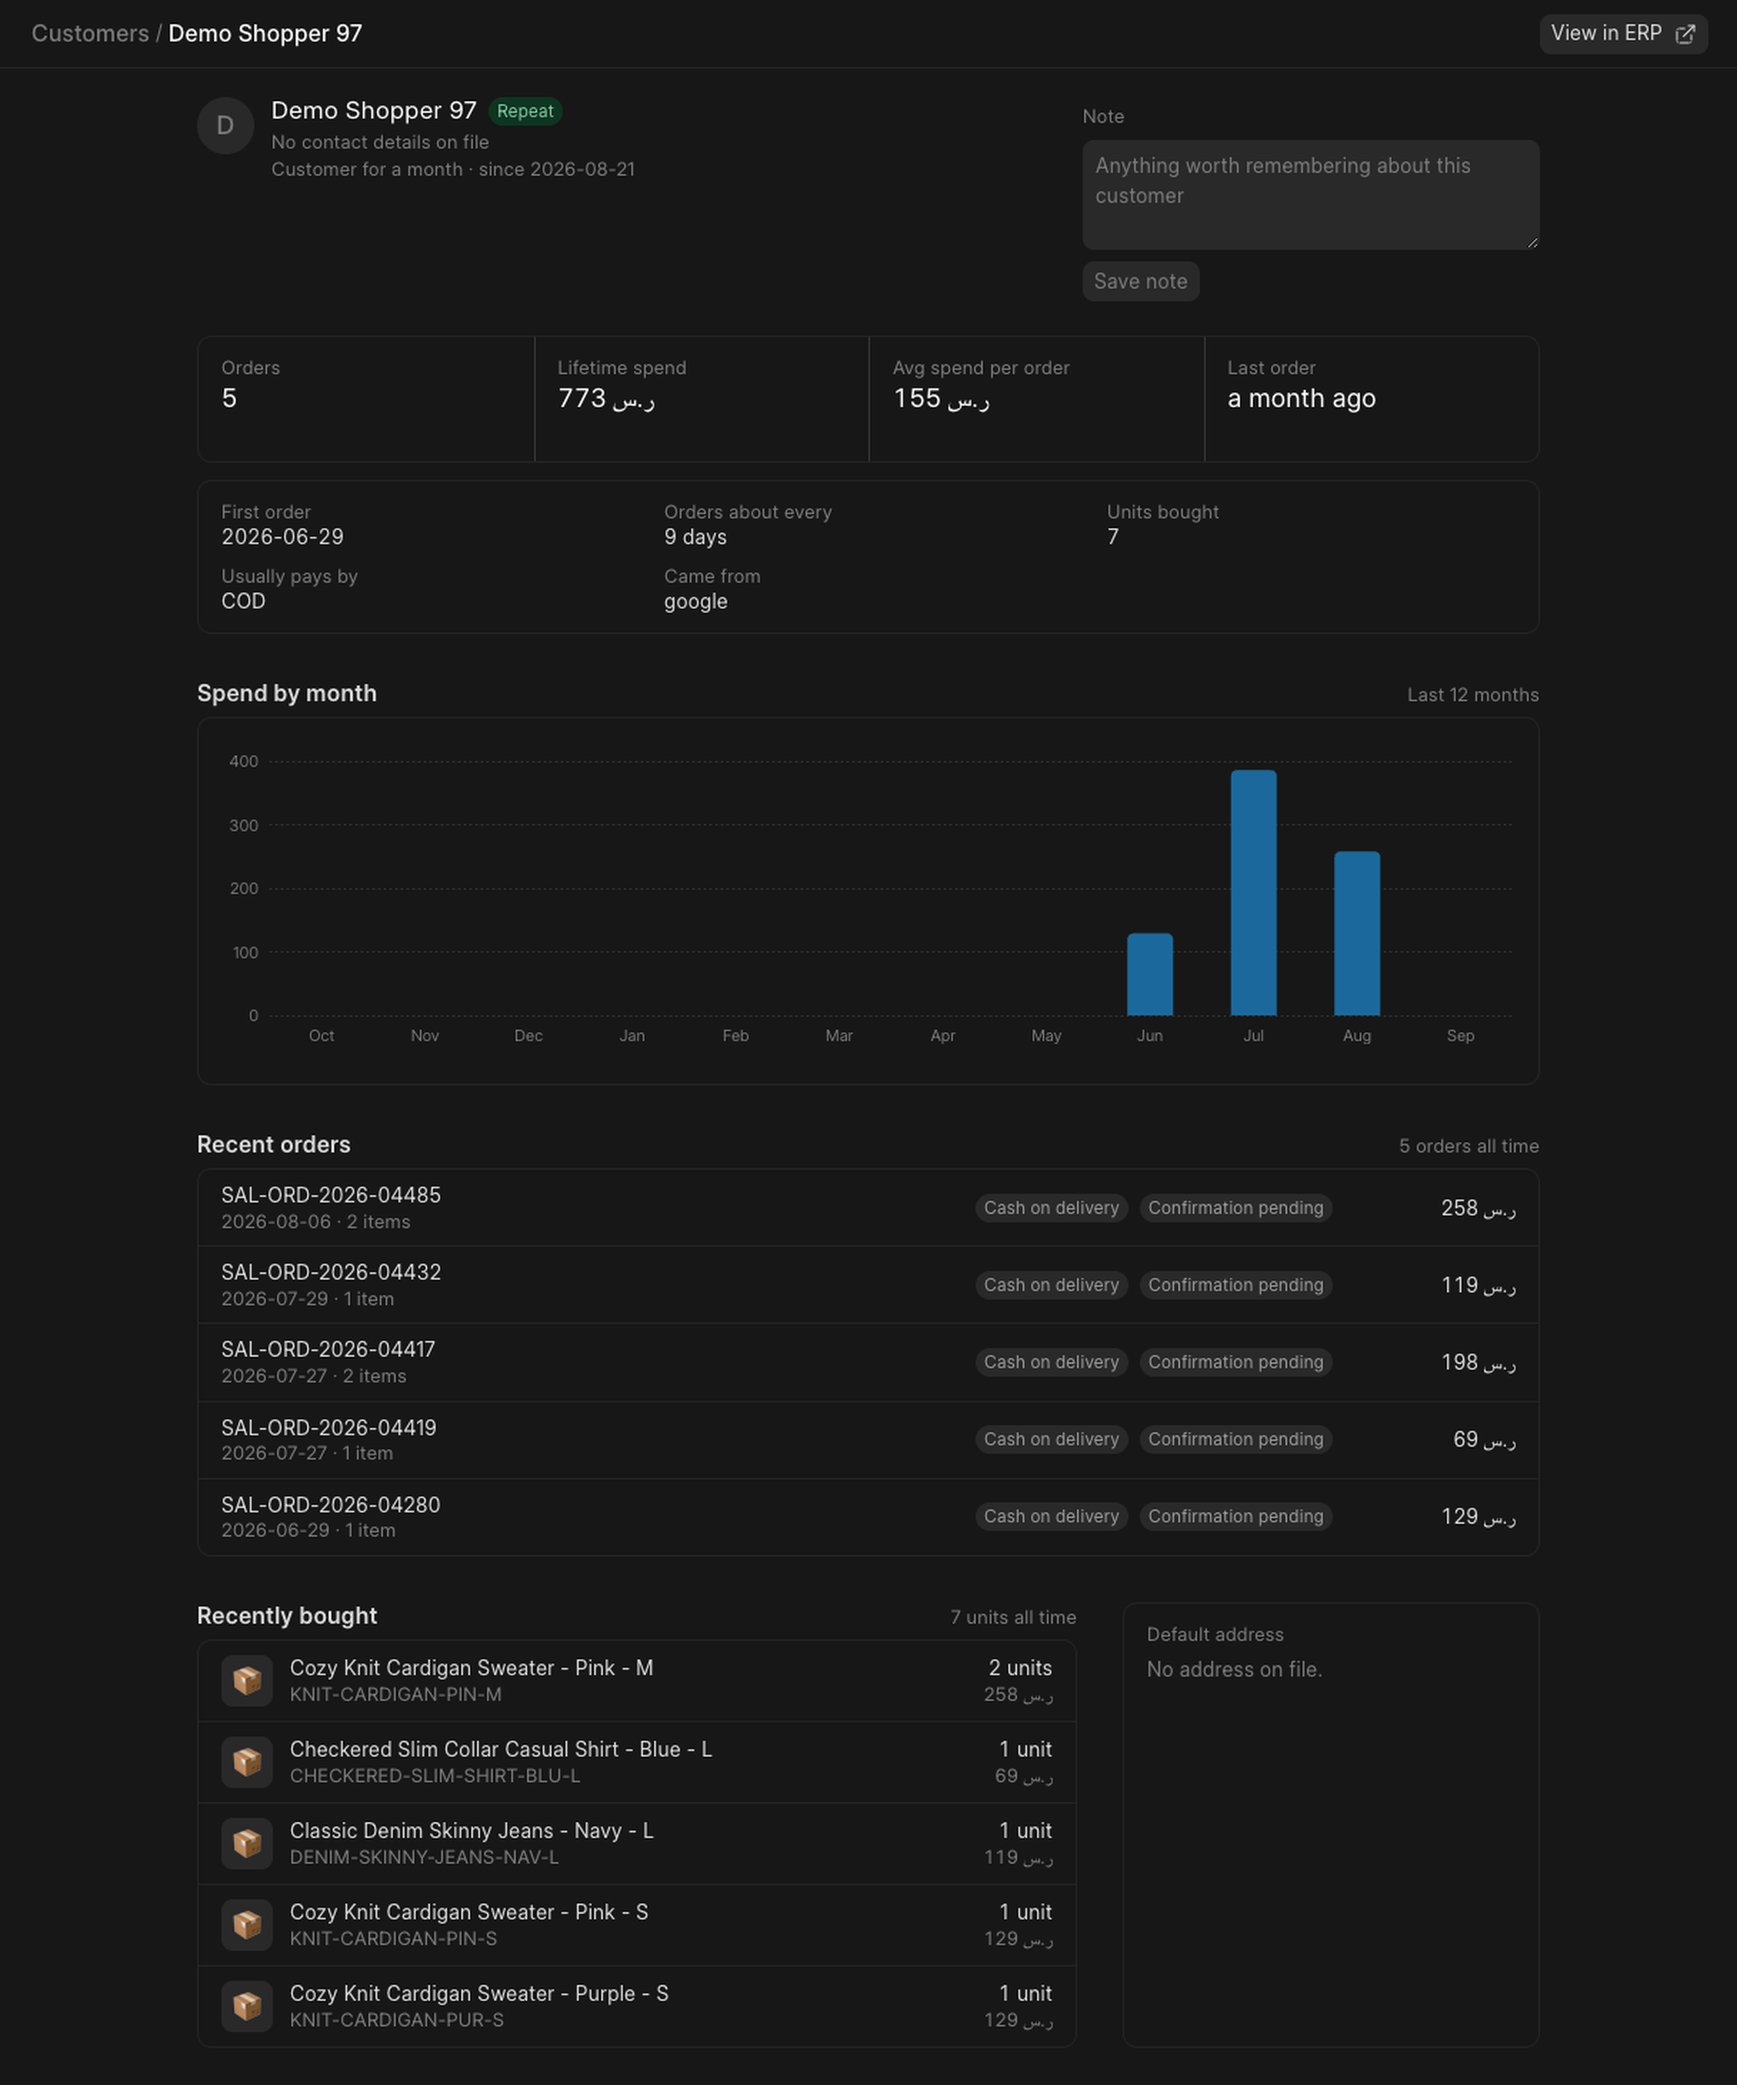
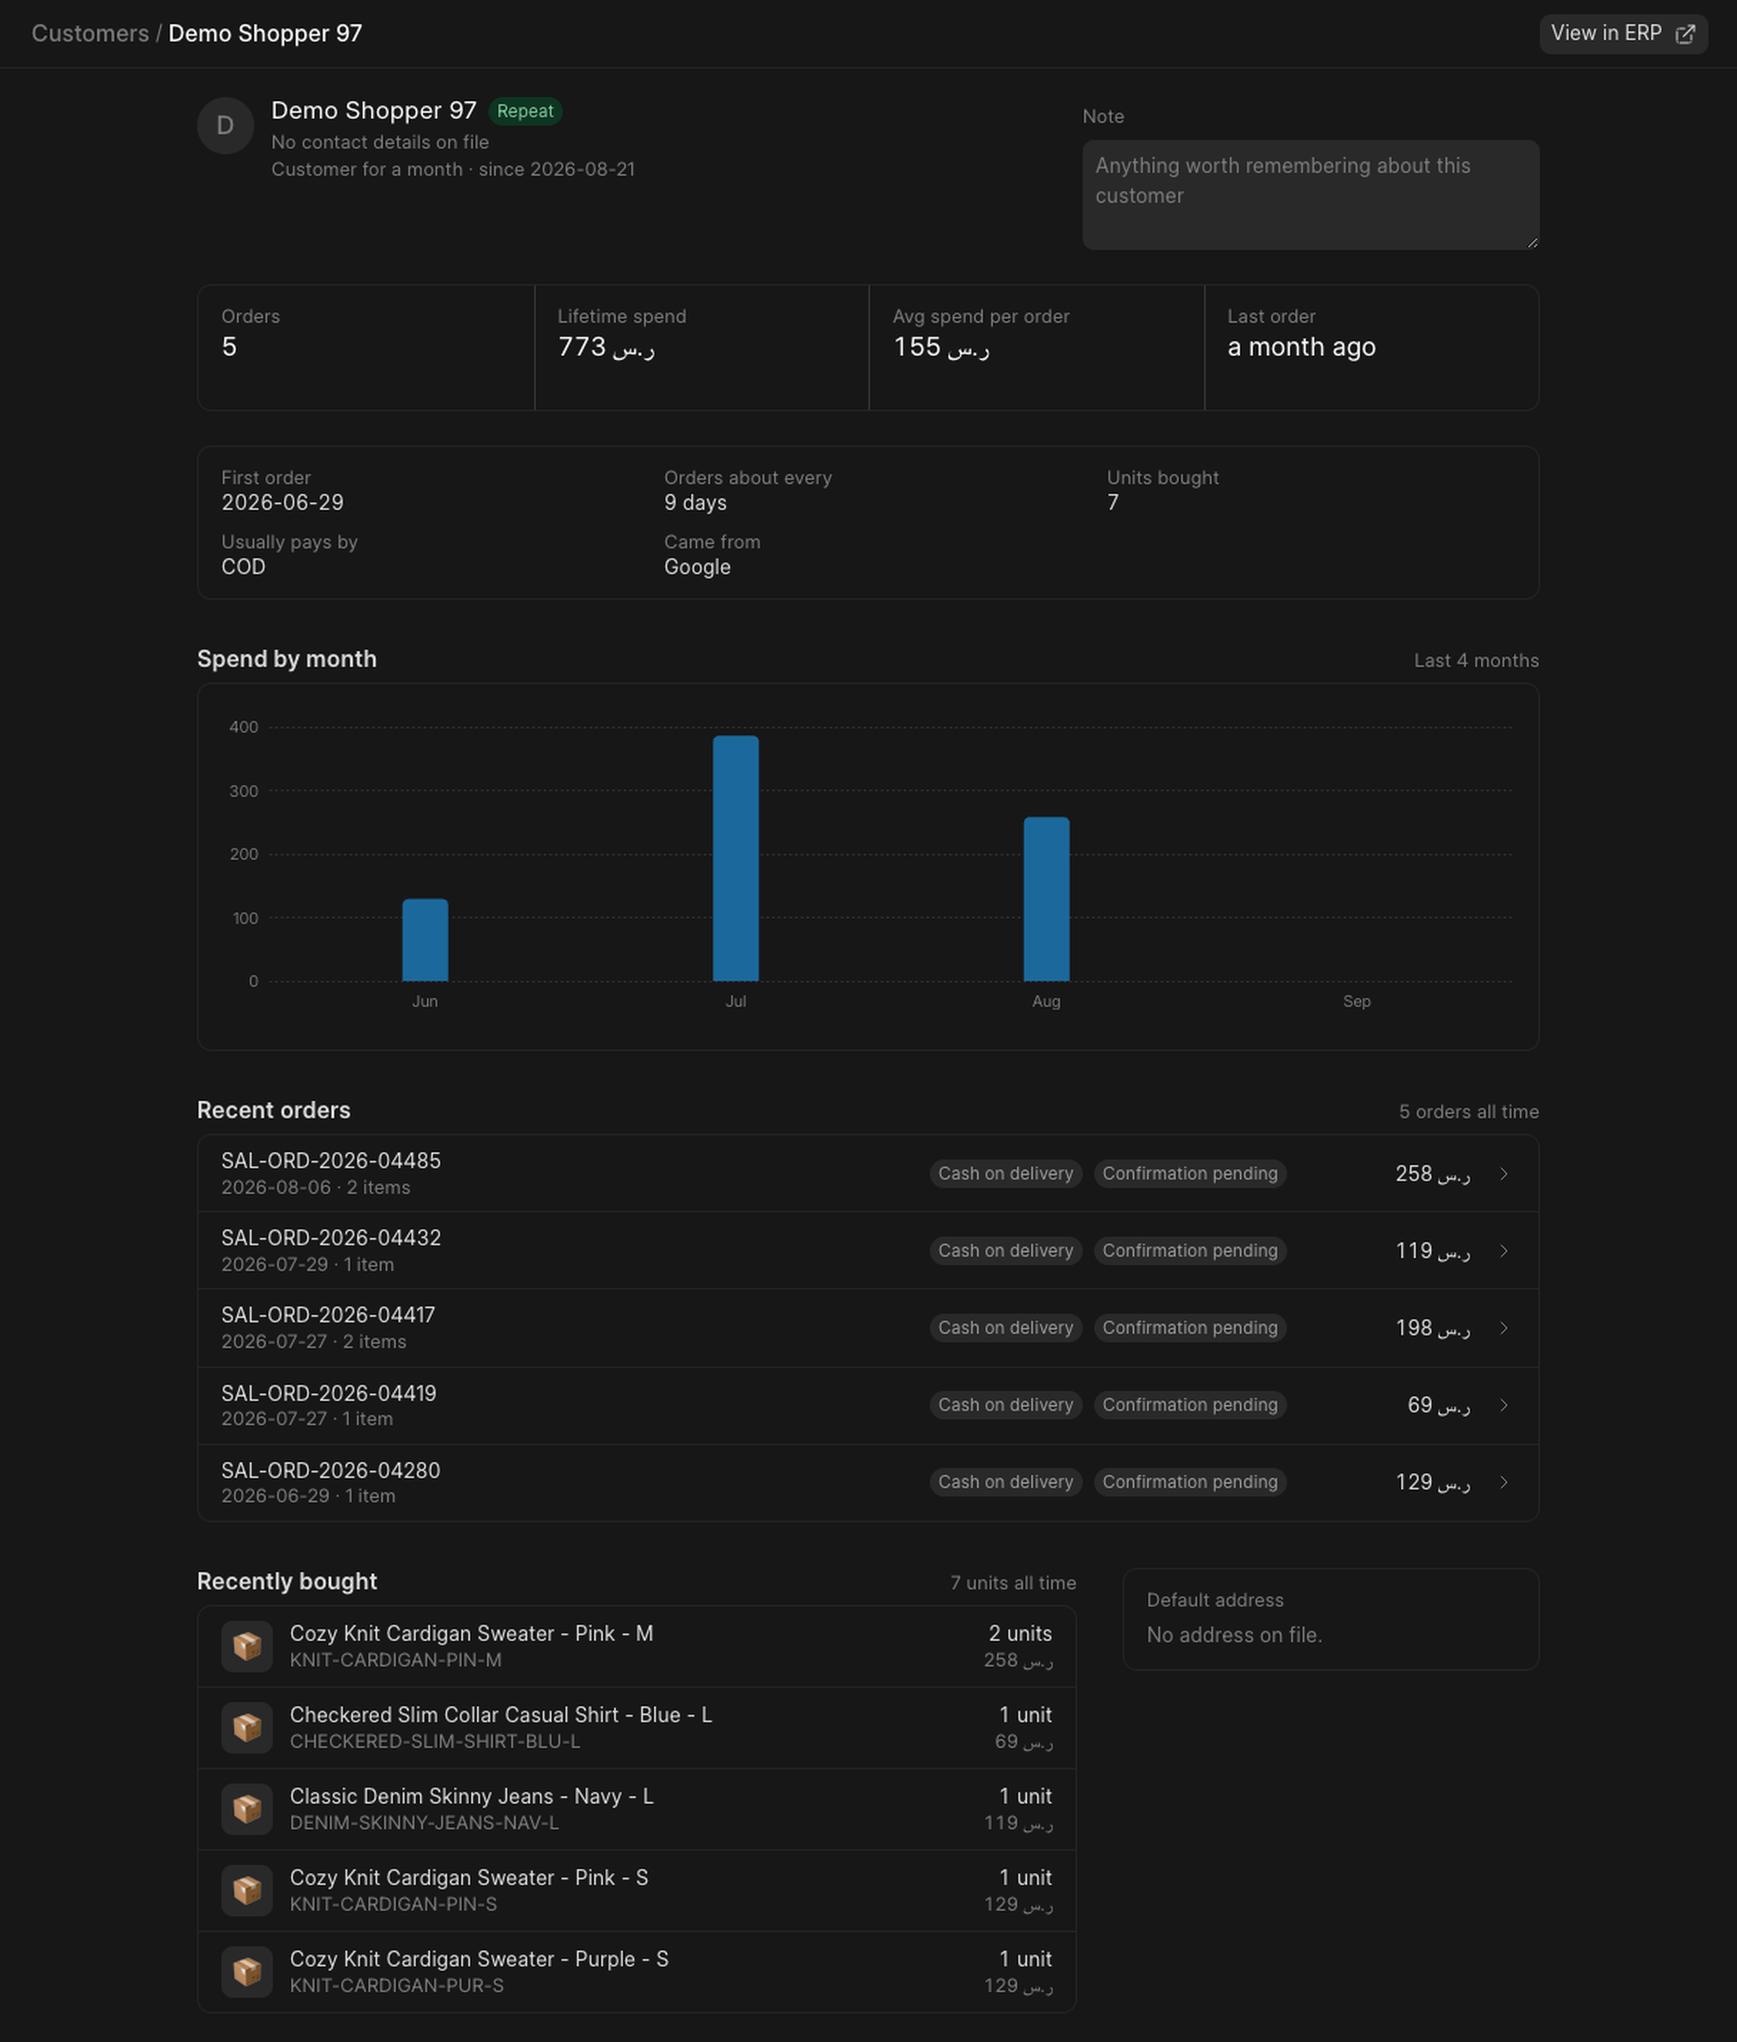
fix(dashboard): address the visual review on the customer profile

diff --git a/dashboard/src/pages/CustomerDetail.vue b/dashboard/src/pages/CustomerDetail.vue
@@ -88,12 +88,25 @@ const atAGlance = computed(() => {
     facts.push({
       label: 'Came from',
       value: [record.acquisition.source, record.acquisition.campaign].filter(Boolean).join(' · '),
+      // utm_source arrives however the campaign was tagged, almost always
+      // lowercase ("google"), which reads as unfinished next to the other facts.
+      capitalize: true,
     })
   }
   return facts
 })
 
 const customerFor = computed(() => dayjs(customer.value.since).fromNow(true))
+
+// The server always sends a full year so the axis is continuous, but a customer
+// who first bought four months ago would spend two thirds of the plot proving
+// they did not exist yet. Drop the empty run before their first month; the gaps
+// between their own orders stay, because those are the ones worth seeing.
+const spendByMonth = computed(() => {
+  const months = customer.value?.spend_by_month ?? []
+  const firstMonthWithSpend = months.findIndex((month) => month.spend)
+  return firstMonthWithSpend > 0 ? months.slice(firstMonthWithSpend) : months
+})
 
 // Customer.email_id and mobile_no come back as empty strings, not null, when a
 // shopper checked out without them — joining the truthy parts keeps a missing
@@ -165,11 +178,14 @@ function plural(count, word) {
             v-model="note"
             placeholder="Anything worth remembering about this customer"
           />
+          <!-- Only once there is something to save: a permanently parked
+               disabled button is the loudest thing in the header, and the note
+               should sit quietly behind the customer's own details. -->
           <Button
+            v-if="noteChanged"
             class="mt-2"
             label="Save note"
             :loading="noteAction.loading"
-            :disabled="!noteChanged"
             @click="saveNote"
           />
         </section>
@@ -177,11 +193,16 @@ function plural(count, word) {
 
       <ReportStats class="mt-6" :stats="stats" />
 
-      <section v-if="atAGlance.length" class="mt-3 rounded-5 border border-outline-gray-1 px-4 py-3.5">
+      <section v-if="atAGlance.length" class="mt-6 rounded-5 border border-outline-gray-1 px-4 py-3.5">
         <dl class="grid grid-cols-2 gap-x-6 gap-y-3 sm:grid-cols-3">
           <div v-for="fact in atAGlance" :key="fact.label">
             <dt class="text-sm text-ink-gray-5">{{ fact.label }}</dt>
-            <dd class="mt-0.5 text-base text-ink-gray-8 tabular-nums">{{ fact.value }}</dd>
+            <dd
+              class="mt-0.5 text-base text-ink-gray-8 tabular-nums"
+              :class="fact.capitalize ? 'capitalize' : ''"
+            >
+              {{ fact.value }}
+            </dd>
           </div>
         </dl>
       </section>
@@ -189,13 +210,15 @@ function plural(count, word) {
       <section v-if="customer.orders" class="mt-8">
         <div class="flex items-baseline justify-between">
           <h2 class="text-lg-semibold text-ink-gray-8">Spend by month</h2>
-          <span class="text-sm text-ink-gray-5">Last 12 months</span>
+          <span class="text-sm text-ink-gray-5">
+            {{ spendByMonth.length === 1 ? 'This month' : `Last ${spendByMonth.length} months` }}
+          </span>
         </div>
         <!-- frappe-ui's charts fill their parent, so the height has to come
              from the wrapper — the analytics reports do the same. -->
         <div class="mt-2 rounded-5 border border-outline-gray-1 p-4">
           <div class="h-56">
-            <BarChart :data="customer.spend_by_month" x="label" :y="['spend']" />
+            <BarChart :data="spendByMonth" x="label" :y="['spend']" />
           </div>
         </div>
       </section>
@@ -242,13 +265,19 @@ function plural(count, word) {
               <p class="w-28 shrink-0 text-right text-base text-ink-gray-8 tabular-nums">
                 {{ money(order.total) }}
               </p>
+              <!-- The row opens the order; without this the list reads as a
+                   read-only summary at rest, as the old List rows did not. -->
+              <span class="lucide-chevron-right size-4 shrink-0 text-ink-gray-4" aria-hidden="true" />
             </router-link>
           </li>
         </ul>
         <EmptyState v-else icon="lucide-shopping-bag" title="No orders yet" compact />
       </section>
 
-      <div class="mt-8 grid gap-8 lg:grid-cols-3">
+      <!-- items-start so the address card hugs its two lines instead of being
+           stretched to the height of the product list beside it, which reads as
+           a panel that failed to load. -->
+      <div class="mt-8 grid items-start gap-8 lg:grid-cols-3">
         <section v-if="topProducts.length" class="lg:col-span-2">
           <div class="flex items-baseline justify-between">
             <h2 class="text-lg-semibold text-ink-gray-8">Recently bought</h2>
